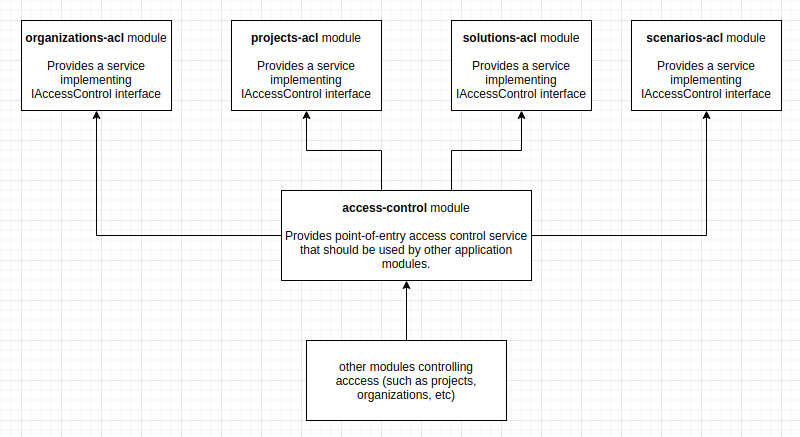
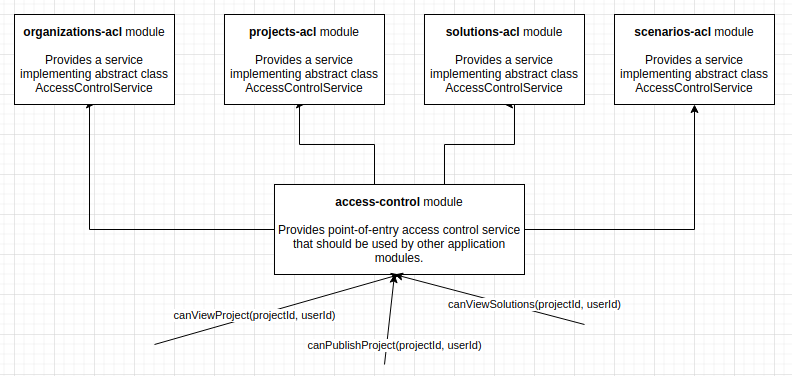
docs: update brief and HDL according to PR feedback

diff --git a/api/apps/api/src/modules/access-control/access-control-service.interface.ts b/api/apps/api/src/modules/access-control/access-control-service.interface.ts
@@ -1,46 +1,15 @@
-interface IAccessControlService {
-  /**
-   * Checks if the given user can has the "Owner" role for the provided resource id.
-   * This method should return "true" if one of the following conditions apply:
-   *   - the user is a platform admin;
-   *   - the user has a role greater or equal to "Owner" for the resource being checked;
-   *   - the user has a role greater or equal to "Owner" for a resource hierarchically
-   *   superior to the one being checked.
-   *
-   * @param resourceId The id of the resource being checked.
-   * @param userId The id of the user.
-   *
-   * @returns {boolean} True/false if the provided user is owner of the provided resource.
-   */
-  isOwner(resourceId: string, userId: string): boolean;
+export type Allowed = true;
+export type Denied = false;
 
-  /**
-   * Checks if the given user can has the "Contributor" role for the provided resource id.
-   * This method should return "true" if one of the following conditions apply:
-   *   - the user is a platform admin;
-   *   - the user has a role greater or equal to "Contributor" for the resource being checked;
-   *   - the user has a role greater or equal to "Contributor" for a resource hierarchically
-   *   superior to the one being checked.
-   *
-   * @param resourceId The id of the resource being checked.
-   * @param userId The id of the user.
-   *
-   * @returns {boolean} True/false if the provided user is contributor of the provided resource.
-   */
-  isContributor(resourceId: string, userId: string): boolean;
+export type Permit = Allowed | Denied;
 
-  /**
-   * Checks if the given user can has the "Viewer" role for the provided resource id.
-   * This method should return "true" if one of the following conditions apply:
-   *   - the user is a platform admin;
-   *   - the user has a role greater or equal to "Viewer" for the resource being checked;
-   *   - the user has a role greater or equal to "Viewer" for a resource hierarchically
-   *   superior to the one being checked.
-   *
-   * @param resourceId The id of the resource being checked.
-   * @param userId The id of the user.
-   *
-   * @returns {boolean} True/false if the provided user is viewer of the provided resource.
-   */
-  isViewer(resourceId: string, userId: string): boolean;
+type Result = Promise<Permit>;
+
+export abstract class AccessControlService {
+  abstract canCreateProject(projectId: string, userId: string): Result;
+  abstract canViewProject(projectId: string, userId: string): Result;
+  abstract canPublishProject(projectId: string, userId: string): Result;
+  abstract canCreateScenario(projectId: string, userId: string): Result;
+  abstract canEditScenario(scenarioId: string, userId: string): Result;
+  abstract canViewSolutions(scenarioId: string, userId: string): Result;
 }

diff --git a/docs/features/role-based-access-control/high-level-design.md b/docs/features/role-based-access-control/high-level-design.md
@@ -5,8 +5,7 @@ the Marxan platform.
 
 ## Roles
 
-Platform administrators should be identified in a database table dedicated for the purpose. Adding users to the admins
-DB table should only be done by other admin users.
+**Platform admins** should be stored and identified separately from the remaining platform roles.
 
 The remaining roles supported by the platform (`Owner`, `Contributor` and `Viewer`) will be stored in the `roles` 
 database in the `marxan-api` database. These roles should cover the roles defined in the project requirements:
@@ -17,38 +16,54 @@ database in the `marxan-api` database. These roles should cover the roles define
 * "Project reviewer (read-only)" -> role Viewer for resource Project;
 * "Project solution-viewer" -> role Viewer for resource "Solutions";
 
-Roles should have numerical values associated to them, to identify the hierarchical order between them. For instance:
-
-* `Owner` -> 1000
-* `Contributor` -> 500
-* `Viewer` -> 250
-
-Roles with fewer privileges should have lower numerical values than roles with more privileges. Using numerical values
-for roles allows for easily comparing if a given user has certain privileges (e.g. checking if a user has the role 
-`Contributor` can be easily done: `role >= Contributor (500)`).
-
-There is also an implicit relationship between platform actions and the supported roles. By default, it is assumed that:
-  * a user with role `Viewer` can read the information for the given resource (which usually includes calls to 
+The following list describes some conventions that will be followed in the implementation of the RBAC - keep in mind
+these behaviors might be overwritten by each resource, so make sure to check the **permissions matrix** for a more
+comprehensive list of actions and their permissions:
+* a user with role `Viewer` can read the information for the given resource (which usually includes calls to 
 `GET resource` and `GET resource/:id` endpoints).
-  * user with role `Contributor` can perform all the actions a `Viewer` can, as well as edition actions for the given
+* user with role `Contributor` can perform the same actions as a `Viewer`, as well as edition actions for the given
 resource (which usually includes calls to `PATCH/PUT resource/:id` endpoints).
-  * user with `Owner` role can perform all the actions a `Contributor` can, as well as deleting actions for the given
+* user with `Owner` role can perform the same actions as a `Contributor`, as well as deleting actions for the given
 resource (which usually includes calls to `DELETE resource/:id` endpoints).
 
-**However, it is up to the functions implementing each feature (modules, controllers, services or any other kind of 
-object in the context of the API) to correctly check permissions for the action being performed.** This also applies
-to custom actions that might be subject to RBAC: for instance, if publishing a project is a custom action that should be
-subject to RBAC, then it is up to the controller action, service method, or wherever we need to do this, to check that 
-the user performing the request has the required role (e.g. `Owner`) to perform that action.
+*Note: creation actions may be subject to more specific permissions, depending on the resource.*
+
+**However, it is up to the functions implementing each feature (controllers, services or any other entity 
+in the context of the platform) to correctly check permissions for the action being performed.** Checking permissions
+should be done by calling the appropriate function in the Access Control service class for the resource being accessed.
+
+For example, if a user with id `1` is trying to publish a `project` with id `2`, then the `publish` function
+needs to check if that user can publish that project. This can be done by calling the `canPublish` function in the 
+access control service in the `projects-acl` module.
+
+## Permissions matrix
 
 Currently, these are the roles required to perform the following actions in the platform:
 
-| Actions / Roles    | Scenario Viewer | Scenario Contributor | Scenario Owner | Project Viewer | Project Contributor | Project Owner | Organization Viewer | Organization Contributor | Organization Owner | Platform admin |
-|--------------------|:---------------:|:--------------------:|:--------------:|:--------------:|:-------------------:|:-------------:|:-------------------:|:------------------------:|:------------------:|:--------------:|
-| Edit project       | n               | n                    | n              | n              | Y                   | Y             | n                   | Y                        | Y                  | Y              |
-| Publish my project | n               | n                    | n              | n              | n                   | Y             | n                   | n                        | Y                  | Y              |
-| Delete project     | n               | n                    | n              | n              | n                   | Y             | n                   | n                        | Y                  | Y              |
-| Delete scenario    | n               | n                    | Y              | n              | n                   | n             | n                   | n                        | Y                  | Y              |
+| Actions / Roles                | Solution Viewer | Solution Contributor | Solution Owner | Scenario Viewer | Scenario Contributor | Scenario Owner | Project Viewer | Project Contributor | Project Owner | Organization Viewer | Organization Contributor | Organization Owner | Platform admin |
+|--------------------------------|:---------------:|:--------------------:|:--------------:|:---------------:|:--------------------:|:--------------:|:--------------:|:-------------------:|:-------------:|:-------------------:|:------------------------:|:------------------:|:--------------:|
+| Create organization            |                 |                      |                |                 |                      |                |                |                     |               |                     |                          |                    |        ✔       |
+| Read organization              |                 |                      |                |                 |                      |                |                |                     |               |          ✔          |             ✔            |          ✔         |        ✔       |
+| Update organization            |                 |                      |                |                 |                      |                |                |                     |               |                     |             ✔            |          ✔         |        ✔       |
+| Delete organization            |                 |                      |                |                 |                      |                |                |                     |               |                     |                          |          ✔         |        ✔       |
+| Manage organization user roles |                 |                      |                |                 |                      |                |                |                     |               |                     |                          |          ✔         |        ✔       |
+| Create project                 |                 |                      |                |                 |                      |                |                |                     |               |                     |             ✔            |          ✔         |        ✔       |
+| Read project                   |                 |                      |                |                 |                      |                |        ✔       |          ✔          |       ✔       |                     |                          |                    |        ✔       |
+| Update project                 |                 |                      |                |                 |                      |                |                |          ✔          |       ✔       |                     |                          |                    |                |
+| Delete project                 |                 |                      |                |                 |                      |                |                |                     |       ✔       |                     |                          |                    |        ✔       |
+| Manage project user roles      |                 |                      |                |                 |                      |                |                |                     |       ✔       |                     |                          |                    |                |
+| Publish project                |                 |                      |                |                 |                      |                |                |                     |       ✔       |                     |                          |                    |                |
+| Run Marxan                     |                 |                      |                |                 |                      |                |                |          ✔          |       ✔       |                     |                          |                    |                |
+| Create scenario                |                 |                      |                |                 |                      |                |                |          ✔          |       ✔       |                     |                          |                    |                |
+| Read scenario                  |                 |                      |                |        ✔        |           ✔          |        ✔       |                |                     |               |                     |                          |                    |                |
+| Update scenario                |                 |                      |                |                 |           ✔          |        ✔       |                |                     |               |                     |                          |                    |                |
+| Delete scenario                |                 |                      |                |                 |                      |        ✔       |                |                     |               |                     |                          |                    |                |
+| Manage scenario user roles     |                 |                      |                |                 |                      |        ✔       |                |                     |               |                     |                          |                    |                |
+| Create solution                |                 |                      |                |                 |           ✔          |        ✔       |                |                     |               |                     |                          |                    |                |
+| Read solution                  |        ✔        |           ✔          |        ✔       |                 |                      |                |                |                     |               |                     |                          |                    |                |
+| Update solution                |                 |           ✔          |        ✔       |                 |                      |                |                |                     |               |                     |                          |                    |                |
+| Delete solution                |                 |                      |        ✔       |                 |                      |                |                |                     |               |                     |                          |                    |                |
+| Manage solution user roles     |                 |                      |        ✔       |                 |                      |                |                |                     |               |                     |                          |                    |                |
 
 ## Association between roles and users for resources
 
@@ -57,9 +72,10 @@ using one database table for each resource:
 * `users_organizations` will store the roles of users inside organizations.
 * `users_projects` will store the roles of users inside projects.
 * `users_scenarios` will store the roles of users inside scenarios.
+* `users_solutions` will store the roles of users inside solutions.
 
-These tables should contain columns for `user_id`, `role` and the resource id (`organization_id`, `project_id` and 
-`scenario_id`, respectively).
+These tables should contain columns for `user_id`, `role` and the resource id (`organization_id`, `project_id`, `scenario_id` 
+or `solution_id`, respectively).
 
 ## Architecture
 
@@ -72,10 +88,7 @@ Additionally, we will have specific modules for checking permissions for each of
 
 This `access-control` module will expose a public service, and this is the point of entry that should be used by other 
 services to control access to resources. The `access-control` module will also contain the interface that should be 
-implemented the services in the resource-specific modules, which these should implement.
-
-This interface is called `IAccessControlService` and it is located in `api/apps/api/src/modules/access-control/access-control-service.interface.ts`.
-
-The following diagram illustrates how access should be controlled across the application:
+implemented the services in the resource-specific modules, which these should implement. The following diagram illustrates 
+how access should be controlled across the application:
 
 ![Access control architecture diagram](./architecture-diagram.png)

diff --git a/docs/features/role-based-access-control/brief.md b/docs/features/role-based-access-control/brief.md
@@ -12,29 +12,28 @@ The current implementation is based on the requirements described in the [User r
 
 In the context of the Marxan platform, we will consider the following roles:
 
-* **Admin**: a generic platform administrator, who can perform **any action for any resource** in the platform.
 * **Owner**: represents a user that can perform any management actions for a specific resource of the platform (e.g. 
-a project). This role is typically attributed to the user who created the resource (i.e. they own the resource).
+a project). This role is typically attributed initially to the user who created the resource (i.e. they own the resource).
 * **Contributor**: represents a user with read-write access to a specific resource. Users with this role cannot manage 
 the roles of users associated with a resource or delete the resource.
-* **Viewer**: represents a user with read-only access to a given resource or particular part of the resource (think of `solutions` for scenario, or map tiles)
+* **Viewer**: represents a user with read-only access to a given resource or particular part of the resource
+(think of `solutions` for scenario, or map tiles)
 
 Note: initially, we thought about considering "Temporal users" as a role, but since this feature will be achieved by 
 using dedicated instances for training, this role will not be implemented.
+
+In addition to the roles defined above, we will also consider **Platform admins**. Platform admins will be able to see
+self-contained information about the projects like title/description, as well as delete them, but they will not be able to
+see or manage their scenarios, solutions.
 
 ## Resources
 
 We will consider the following entities as resources subject to RBAC:
 
-1. Organizations
-2. Projects
-3. Scenarios
+* Organizations
+* Projects
+* Scenarios
+* Solutions
 
-The entities stated above will work in a hierarchical way: roles granted to users in organizations also apply to all 
-projects owned by said organization, as well as all scenarios in all projects owned by the organization.
-
-However, this hierarchical behavior can be overwritten in a case-by-case basis if needed - e.g. a given user can be 
-"contributor" for an organization, but have "owner" privileges for a specific project inside (or outside) that 
-organization.
-
-**Keep in mind that permissions have to be explicitly granted for a given user to have access to a given resource.**
+Permissions have to be explicitly granted for a given user to have access to a given resource. There is no implicit access to
+resources in the platform.

diff --git a/docs/features/role-based-access-control/development-plan.md b/docs/features/role-based-access-control/development-plan.md
@@ -9,14 +9,16 @@ This document describes the initial plan for the implementation of Role based ac
 * Update the already existing `projects-acl` implementation module to implement the defined interface.
 * Create point-of-entry service in the `access-control` module that wraps the `projects-acl` module.
 * Update existing calls of the `projects-acl` module to use `access-control` instead.
-* Call the `access-control` service to check permissions for projects in the required places in the code.
+* Implement CRUD actions for the `projects-acl` module.
+* Call the `access-control` service to check permissions for projects in the required places in the code (according
+to the permissions defined in the HLD document).
 
 ## Release 2 (later)
 
 * Implement platform admin users.
-* Create `organizations-acl` module with a service to check access implementing the IAccessControlService interface
-defined in the `access-control` module.
-* Create `solutions-acl` module with a service to check access implementing the IAccessControlService interface
-defined in the `access-control` module.
-* Create `scenarios-acl` module with a service to check access implementing the IAccessControlService interface
-defined in the `access-control` module.
+* Create `organizations-acl` module with a service to check access implementing the defined interface.
+* Implement CRUD actions for the `organizations-acl` module.
+* Create `solutions-acl` module with a service to check access implementing the defined interface.
+* Implement CRUD actions for the `solutions-acl` module.
+* Create `scenarios-acl` module with a service to check access implementing the defined interface.
+* Implement CRUD actions for the `scenarios-acl` module.
